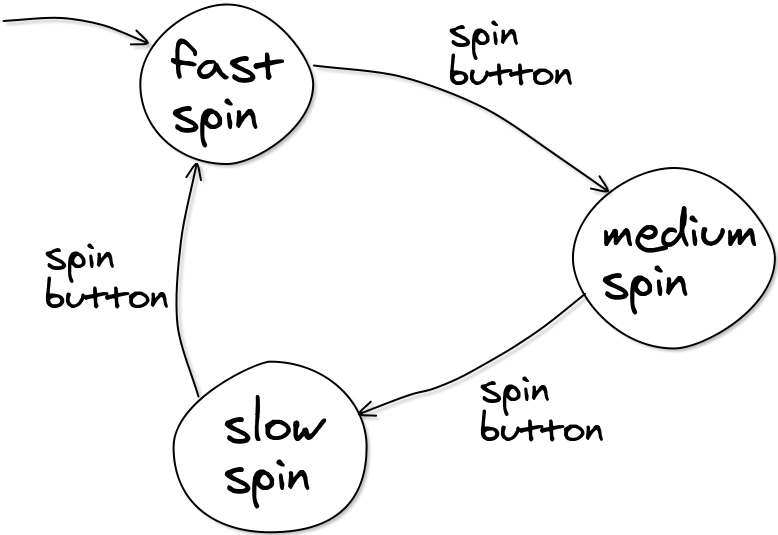
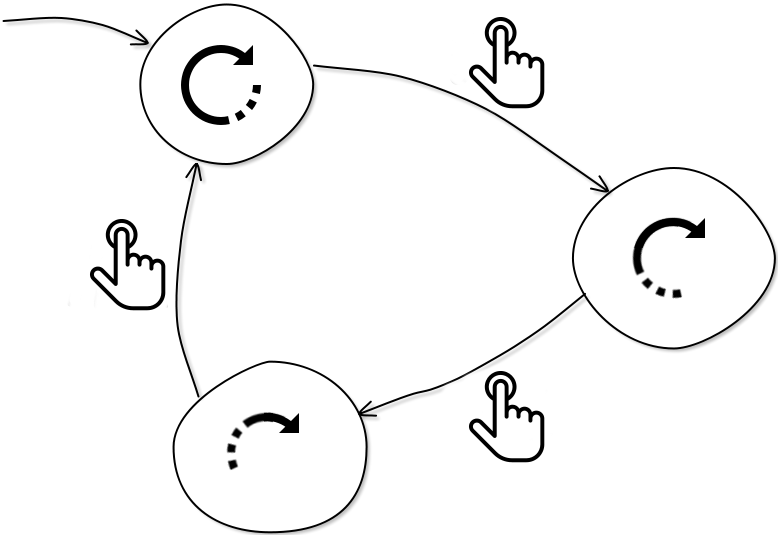
Internationalisation support for fsa spin speeds image

diff --git a/csfieldguide/chapters/content/en/formal-languages/sections/finite-state-automata.md b/csfieldguide/chapters/content/en/formal-languages/sections/finite-state-automata.md
@@ -46,11 +46,7 @@ You should let students devise their own notation for this.
 They will soon learn (possibly the hard way) that they should record all routes with an arrow (since trains don't necessarily return by the same route), and label their arrows with A or B.
 The full map for the activity is below, but don't spoil the students' fun by providing it — at least, not yet.
 
-{image file-path="img/chapters/trainsylvania-complete.png" alt="Solution to the train map" caption="true"}
-
-Click image to enlarge
-
-{image end}
+{image file-path="img/chapters/trainsylvania-complete.png" alt="Solution to the train map"}
 
 {panel end}
 
@@ -205,7 +201,7 @@ but for an FSA that is processing text typed into a computer, the alphabet will 
 
 The connections between states are called {glossary-link term="transition" reference-text="Formal languages"}transitions{glossary-link end}, since they are about changing state.
 The sequence of characters that we input into the FSA is often called a
-{glossary-link term="string" reference-text="Formal languages"}string{glossary-link end},
+{glossary-link term="string" reference-text="Formal languages"}string{glossary-link end}
 (it's just a string of letters), and the set of all strings that can be accepted by a particular FSA is called its {glossary-link term="language" reference-text="Formal languages"}language{glossary-link end}.
 For the FSA in the last example, its *language* includes the *strings* "a", "aaa", "bab", "ababab", and lots more, because these are accepted by it.
 However, it does not include the strings "bb" or "aa".
